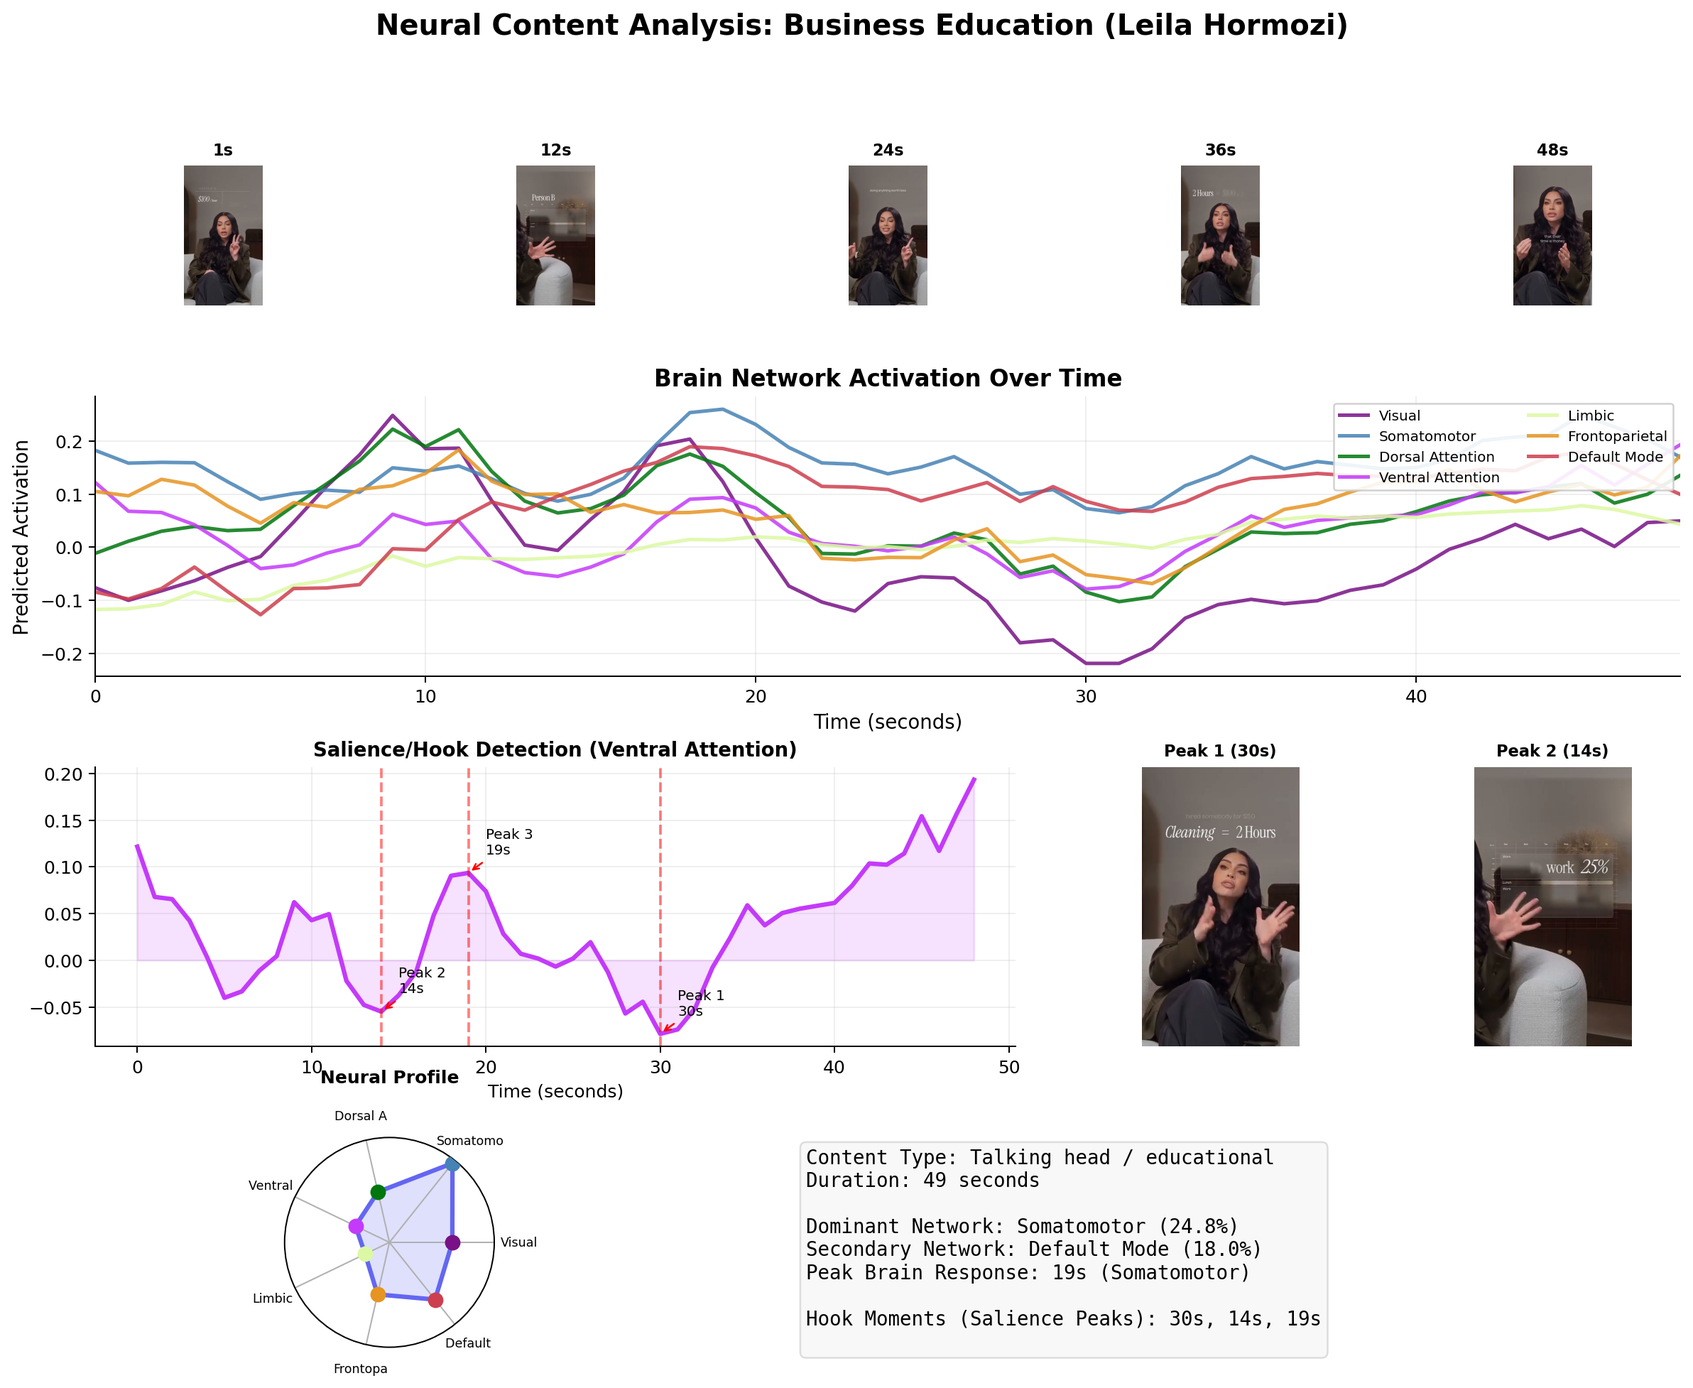
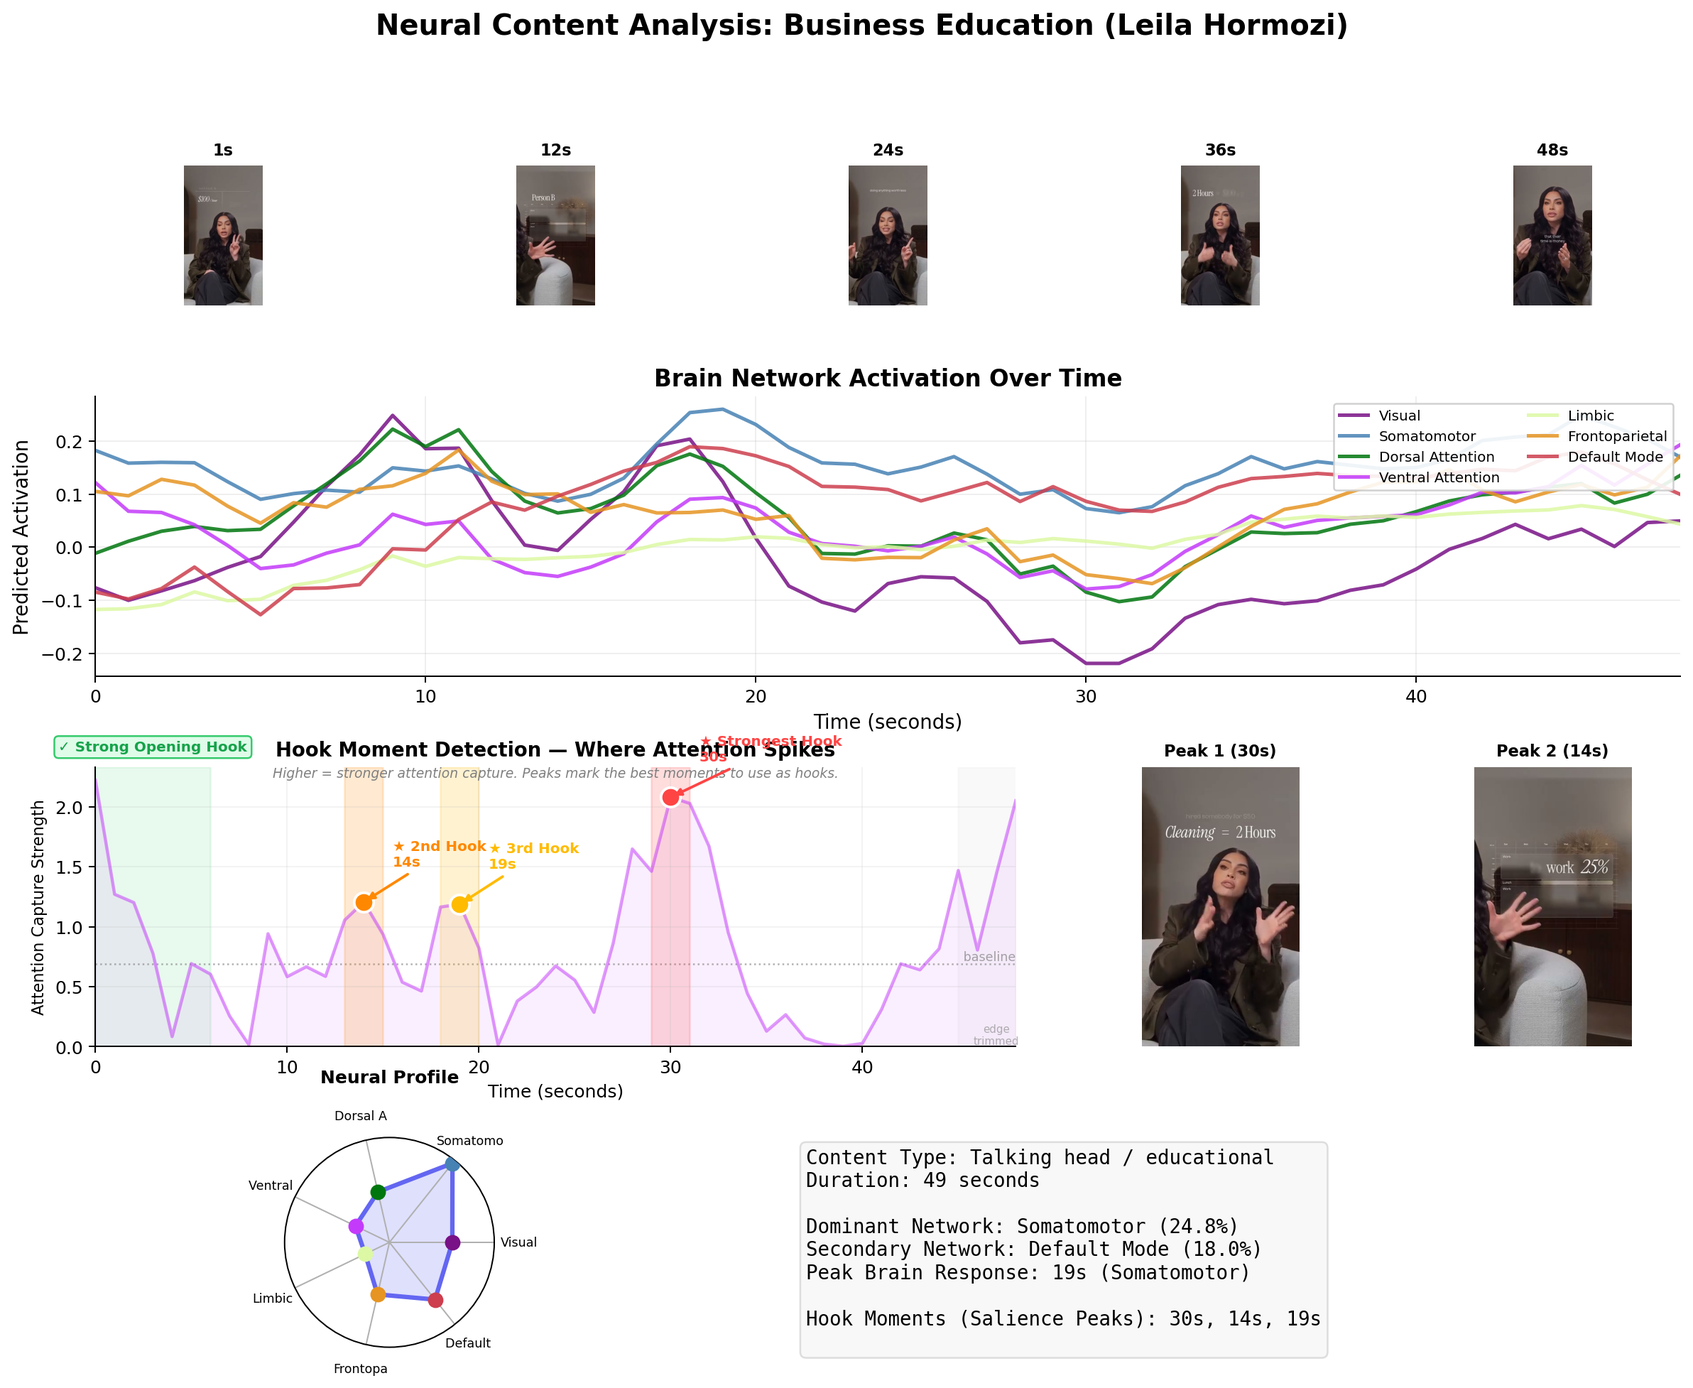
Improve hook detection: asymmetric trimming, clearer visuals, opening hook indicator
- Asymmetric boundary trimming (1 frame start, 4 frames end) to preserve
  opening hooks while still avoiding end-of-video drift artifacts
- Hook chart now shows absolute salience with color-ranked markers,
  baseline reference, and plain-English labels
- Opening hook indicator checks per-network activation in first 6s,
  showing green "Strong Opening Hook" badge or "Slow build opening"
- Updated paper timestamps for Perfume UGC (4s, 16s, 21s) and
  Elon AI (29s, 7s, 43s) to reflect newly detected opening hooks

Changed region(s): [[0.0, 0.5307, 0.5898, 0.7805]]

diff --git a/paper/generate_content_figures.py b/paper/generate_content_figures.py
@@ -23,25 +23,30 @@ for _extra in [
     if _extra.exists():
         os.environ["PATH"] = str(_extra) + os.pathsep + os.environ.get("PATH", "")
 
-def find_robust_peaks(timecourse, n_peaks=3, boundary_trim=4, min_distance=3):
-    """Find peaks with detrending and boundary trimming to avoid end-of-video bias."""
+def find_robust_peaks(timecourse, n_peaks=3, start_trim=1, end_trim=4, min_distance=3):
+    """Find peaks with detrending and asymmetric boundary trimming.
+
+    Start trim is minimal (1 frame) to preserve opening hooks.
+    End trim is larger (4 frames) to avoid drift + conv1d edge artifacts.
+    """
     n = len(timecourse)
     if n == 0:
         return np.array([], dtype=int)
-    trim = min(boundary_trim, max(n // 4, 1))
+    st = min(start_trim, max(n // 4, 1))
+    et = min(end_trim, max(n // 4, 1))
     detrended = detrend(timecourse, type='linear')
     std = detrended.std()
     z = detrended / std if std > 0 else detrended
-    interior = np.abs(z[trim:n - trim])
+    interior = np.abs(z[st:n - et])
     peaks, props = scipy_find_peaks(interior, distance=min_distance, prominence=0.1)
     if len(peaks) >= n_peaks:
         top_idx = np.argsort(props['prominences'])[::-1][:n_peaks]
-        peak_indices = peaks[top_idx] + trim
+        peak_indices = peaks[top_idx] + st
     else:
         ranked = np.argsort(interior)[::-1]
         selected = []
         for idx in ranked:
-            orig = idx + trim
+            orig = idx + st
             if all(abs(orig - s) >= min_distance for s in selected):
                 selected.append(orig)
             if len(selected) == n_peaks:
@@ -177,16 +182,88 @@ for stem, (label, color, desc) in VIDEOS.items():
 
     # Row 3: Ventral attention peaks + peak frames
     ax_van = fig.add_subplot(gs[2, :3])
-    ax_van.plot(range(n_ts), van_tc, color=YEO_COLORS[3], linewidth=2.5)
-    ax_van.fill_between(range(n_ts), van_tc, alpha=0.15, color=YEO_COLORS[3])
-    for i, p in enumerate(peaks):
-        ax_van.axvline(p, color="red", linestyle="--", alpha=0.5)
-        ax_van.annotate(f"Peak {i+1}\n{p}s", xy=(p, van_tc[p]),
-                        xytext=(p + 1, van_tc[p] + 0.02),
-                        fontsize=8, arrowprops=dict(arrowstyle="->", color="red"))
-    ax_van.set_title("Salience/Hook Detection (Ventral Attention)", fontsize=11, fontweight="bold")
+    # Compute the salience magnitude signal (what peak detection actually uses)
+    van_detrended = detrend(van_tc, type='linear')
+    van_std = van_detrended.std()
+    van_z = van_detrended / van_std if van_std > 0 else van_detrended
+    van_salience = np.abs(van_z)  # Absolute z-score = salience magnitude
+    # Plot salience magnitude as baseline
+    ax_van.plot(range(n_ts), van_salience, color=YEO_COLORS[3], linewidth=1.8,
+                alpha=0.5, zorder=2)
+    ax_van.fill_between(range(n_ts), van_salience, alpha=0.08, color=YEO_COLORS[3])
+    # Threshold line — median salience as "baseline attention"
+    median_sal = np.median(van_salience)
+    ax_van.axhline(median_sal, color="gray", linewidth=1, linestyle=":",
+                   alpha=0.6, zorder=1)
+    ax_van.text(n_ts - 1, median_sal, " baseline", va="bottom", ha="right",
+                fontsize=7, color="gray", alpha=0.7)
+    # Highlight peak regions with colored spans and bold markers
+    peak_colors_list = ["#FF4444", "#FF8800", "#FFBB00"]
+    peak_labels = ["\u2605 Strongest Hook", "\u2605 2nd Hook", "\u2605 3rd Hook"]
+    for i, p in enumerate(sorted(peaks[:3])):
+        rank = list(peaks).index(p)
+        pc = peak_colors_list[min(rank, 2)]
+        # Highlight region around peak
+        span_lo = max(0, p - 1)
+        span_hi = min(n_ts - 1, p + 1)
+        ax_van.axvspan(span_lo, span_hi, alpha=0.18, color=pc, zorder=1)
+        # Bold marker at peak
+        ax_van.scatter([p], [van_salience[p]], color=pc, s=120, zorder=5,
+                       edgecolors="white", linewidths=1.5)
+        # Label
+        y_offset = van_salience[p] + (ax_van.get_ylim()[1] - ax_van.get_ylim()[0]) * 0.02 if ax_van.get_ylim()[1] > 0 else van_salience[p] + 0.1
+        ax_van.annotate(f"{peak_labels[rank]}\n{p}s",
+                        xy=(p, van_salience[p]),
+                        xytext=(p + 1.5, van_salience[p] + 0.3),
+                        fontsize=8, fontweight="bold", color=pc,
+                        arrowprops=dict(arrowstyle="-|>", color=pc, lw=1.5),
+                        zorder=6)
+    # Mark boundary trim zones (asymmetric: 1 at start, 4 at end)
+    et = min(4, max(n_ts // 4, 1))
+    ax_van.axvspan(n_ts - et, n_ts, alpha=0.10, color="#cccccc", zorder=0)
+    ax_van.text(n_ts - et / 2, 0, "edge\ntrimmed", ha="center", va="bottom",
+                fontsize=6, color="gray", alpha=0.6)
+    # Opening hook indicator — check if ANY network fires strongly in the opening
+    opening_threshold = 6  # seconds — consider first 6s as "opening"
+    opening_end = min(opening_threshold + 1, n_ts)
+    # For each network: is its peak absolute activation in the opening above its video mean?
+    has_opening_hook = False
+    for net_i in range(tc.shape[1]):
+        net_abs = np.abs(tc[:, net_i])
+        opening_max = net_abs[:opening_end].max()
+        video_mean = net_abs.mean()
+        if opening_max > video_mean * 1.3:  # 30% above mean = strong opening for this network
+            has_opening_hook = True
+            break
+    y_top = van_salience.max() * 1.15  # position badge above signal
+    if has_opening_hook:
+        # Green banner for strong opening hook
+        ax_van.axvspan(0, opening_threshold, alpha=0.10, color="#22c55e", zorder=0)
+        ax_van.text(opening_threshold / 2, y_top,
+                    "\u2713 Strong Opening Hook",
+                    ha="center", va="top", fontsize=8, fontweight="bold",
+                    color="#16a34a",
+                    bbox=dict(boxstyle="round,pad=0.3", facecolor="#dcfce7",
+                              edgecolor="#22c55e", alpha=0.9),
+                    zorder=7)
+    else:
+        # Gray note for no opening hook
+        ax_van.axvspan(0, opening_threshold, alpha=0.05, color="#94a3b8", zorder=0)
+        ax_van.text(opening_threshold / 2, y_top,
+                    "Slow build opening",
+                    ha="center", va="top", fontsize=7,
+                    color="#94a3b8", style="italic",
+                    zorder=7)
+    ax_van.set_title("Hook Moment Detection — Where Attention Spikes",
+                     fontsize=11, fontweight="bold")
+    ax_van.text(0.5, 1.0, "Higher = stronger attention capture. Peaks mark the best moments to use as hooks.",
+                transform=ax_van.transAxes, fontsize=7.5, color="gray",
+                ha="center", va="top", style="italic")
     ax_van.set_xlabel("Time (seconds)", fontsize=10)
-    ax_van.grid(True, alpha=0.2)
+    ax_van.set_ylabel("Attention Capture Strength", fontsize=9)
+    ax_van.set_xlim(0, n_ts - 1)
+    ax_van.set_ylim(bottom=0)
+    ax_van.grid(True, alpha=0.15)
     ax_van.spines["top"].set_visible(False)
     ax_van.spines["right"].set_visible(False)
 

diff --git a/app.py b/app.py
@@ -542,19 +542,24 @@ def compute_network_timecourses(preds: np.ndarray, labels: np.ndarray) -> np.nda
 
 
 def find_robust_peaks(timecourse: np.ndarray, n_peaks: int = 3,
-                      boundary_trim: int = 4, min_distance: int = 3) -> np.ndarray:
-    """Find peaks in a timecourse with detrending and boundary trimming.
+                      start_trim: int = 1, end_trim: int = 4,
+                      min_distance: int = 3) -> np.ndarray:
+    """Find peaks in a timecourse with detrending and asymmetric trimming.
 
     Addresses end-of-video bias caused by:
     - Linear drift in model predictions (removed via detrending)
-    - Conv1d zero-padding edge artifacts (removed via boundary trimming)
+    - Conv1d zero-padding edge artifacts (removed via end trimming)
     - Adjacent timesteps dominating top-N (mitigated via minimum distance)
+
+    Start trim is minimal (1 frame) to preserve opening hooks, which are
+    important for content analysis. End trim is larger (4 frames) where
+    both drift accumulation and conv1d artifacts are strongest.
 
     Args:
         timecourse: 1D array of network activation values.
         n_peaks: Number of peaks to return.
-        boundary_trim: Number of timesteps to exclude from each end
-                       (matches TemporalSmoothing kernel_size//2 = 4).
+        start_trim: Timesteps to exclude from start (default 1, minimal).
+        end_trim: Timesteps to exclude from end (default 4, drift + padding).
         min_distance: Minimum distance between returned peaks.
 
     Returns:
@@ -567,10 +572,11 @@ def find_robust_peaks(timecourse: np.ndarray, n_peaks: int = 3,
     if n == 0:
         return np.array([], dtype=int)
 
-    # Clamp boundary trim so we don't eliminate the whole signal
-    trim = min(boundary_trim, max(n // 4, 1))
+    # Clamp trims so we don't eliminate the whole signal
+    st = min(start_trim, max(n // 4, 1))
+    et = min(end_trim, max(n // 4, 1))
 
-    # 1. Detrend: remove linear drift that biases toward start/end
+    # 1. Detrend: remove linear drift that biases toward end
     detrended = detrend(timecourse, type='linear')
 
     # 2. Z-score: normalize so peaks are relative to video's own distribution
@@ -580,8 +586,8 @@ def find_robust_peaks(timecourse: np.ndarray, n_peaks: int = 3,
     else:
         z = detrended
 
-    # 3. Trim boundaries to avoid Conv1d zero-padding artifacts
-    interior = np.abs(z[trim:n - trim])
+    # 3. Asymmetric trim: minimal at start (preserve hooks), full at end
+    interior = np.abs(z[st:n - et])
 
     # 4. Use scipy find_peaks with prominence for robust detection
     scipy_peaks, properties = scipy_find_peaks(interior, distance=min_distance,
@@ -590,13 +596,13 @@ def find_robust_peaks(timecourse: np.ndarray, n_peaks: int = 3,
     if len(scipy_peaks) >= n_peaks:
         # Sort by prominence (most prominent first)
         top_idx = np.argsort(properties['prominences'])[::-1][:n_peaks]
-        peak_indices = scipy_peaks[top_idx] + trim
+        peak_indices = scipy_peaks[top_idx] + st
     else:
         # Fallback: top-N by absolute z-scored magnitude with spacing
         ranked = np.argsort(interior)[::-1]
         selected = []
         for idx in ranked:
-            original_idx = idx + trim
+            original_idx = idx + st
             if all(abs(original_idx - s) >= min_distance for s in selected):
                 selected.append(original_idx)
             if len(selected) == n_peaks:

diff --git a/paper/generate_figures.py b/paper/generate_figures.py
@@ -35,25 +35,30 @@ YEO_COLORS = [
     "#DCF8A4", "#E69422", "#CD3E4E",
 ]
 
-def find_robust_peaks(timecourse, n_peaks=3, boundary_trim=4, min_distance=3):
-    """Find peaks with detrending and boundary trimming to avoid end-of-video bias."""
+def find_robust_peaks(timecourse, n_peaks=3, start_trim=1, end_trim=4, min_distance=3):
+    """Find peaks with detrending and asymmetric boundary trimming.
+
+    Start trim is minimal (1 frame) to preserve opening hooks.
+    End trim is larger (4 frames) to avoid drift + conv1d edge artifacts.
+    """
     n = len(timecourse)
     if n == 0:
         return np.array([], dtype=int)
-    trim = min(boundary_trim, max(n // 4, 1))
+    st = min(start_trim, max(n // 4, 1))
+    et = min(end_trim, max(n // 4, 1))
     detrended = detrend(timecourse, type='linear')
     std = detrended.std()
     z = detrended / std if std > 0 else detrended
-    interior = np.abs(z[trim:n - trim])
+    interior = np.abs(z[st:n - et])
     peaks, props = scipy_find_peaks(interior, distance=min_distance, prominence=0.1)
     if len(peaks) >= n_peaks:
         top_idx = np.argsort(props['prominences'])[::-1][:n_peaks]
-        peak_indices = peaks[top_idx] + trim
+        peak_indices = peaks[top_idx] + st
     else:
         ranked = np.argsort(interior)[::-1]
         selected = []
         for idx in ranked:
-            orig = idx + trim
+            orig = idx + st
             if all(abs(orig - s) >= min_distance for s in selected):
                 selected.append(orig)
             if len(selected) == n_peaks:

diff --git a/paper/neural_content_intelligence.md b/paper/neural_content_intelligence.md
@@ -270,10 +270,10 @@ The most striking finding from the analysis is that different content types prod
 Full deep-analysis outputs for all five videos are available (Figures 4-6 present three in detail below; the complete analyses for the Elon AI and Perfume UGC videos are included as supplementary figures).
 
 ![Deep analysis of Elon AI tech news video.](figures/analysis_ElonAI.png)
-*Figure S1: Full NCI analysis of the Elon AI tech news commentary (60s). Similar Somatomotor + Default Mode profile to business education, but with notably elevated Frontoparietal activation (16%), indicating viewers are critically evaluating claims. The mid-video salience peak at 29s suggests a structural break point useful for CTA placement.*
+*Figure S1: Full NCI analysis of the Elon AI tech news commentary (60s). Similar Somatomotor + Default Mode profile to business education, but with notably elevated Frontoparietal activation (16%), indicating viewers are critically evaluating claims. An early hook at 7s captures initial attention, while the strongest peak at 29s suggests a structural break point useful for CTA placement.*
 
 ![Deep analysis of Perfume UGC street interview.](figures/analysis_PerfumeUGCInterview.png)
-*Figure S2: Full NCI analysis of the perfume UGC street interview (35s). Highest Somatomotor activation (27%) of all five videos, reflecting strong embodied/sensory processing. Salience peaks are front-to-mid loaded (8s, 16s, 21s), indicating early and sustained engagement. Elevated Limbic activation (9%) compared to other talking-head content suggests emotional connection to the product.*
+*Figure S2: Full NCI analysis of the perfume UGC street interview (35s). Highest Somatomotor activation (27%) of all five videos, reflecting strong embodied/sensory processing. The strongest salience peak occurs at 4s (opening hook), with follow-up peaks at 16s and 21s sustaining engagement. Elevated Limbic activation (9%) compared to other talking-head content suggests emotional connection to the product.*
 
 The radar overlay (Figure 2) reveals two distinct clusters. Videos 1-3 (talking-head formats) share a Somatomotor + Default Mode dominant profile, reflecting speech processing and narrative comprehension. Videos 4-5 (visual formats) share a Visual + Dorsal Attention dominant profile, reflecting sustained visual tracking. Within each cluster, meaningful differences emerge: the tech/AI news video adds Frontoparietal control (critical thinking), the UGC perfume review shows elevated Limbic engagement (emotional connection to the product), and the viral ice cutter video shows the highest Ventral Attention of any video (the "satisfying" surprise signature).
 
@@ -353,8 +353,8 @@ Table 2 summarizes the neural profiles and strategic implications of all five vi
 | Video | Duration | Dominant Networks | Hook Moments | Optimization Target | Content Strategy |
 |---|---|---|---|---|---|
 | **Leila Hormozi** (Business Ed.) | 49s | Somatomotor 25% + Default Mode 18% | 30s, 14s, 19s (distributed) | Speaker delivery, argument structure, personal relevance | Optimize voice, cadence, facial expression; multiple hook moments available for re-editing |
-| **Elon AI** (Tech News) | 60s | Somatomotor 22% + Default Mode 19% + Frontoparietal 16% | 29s, 43s, 13s (distributed) | Information density, argument quality, critical engagement | Leverage high Frontoparietal for CTA placement; the 29s mid-video peak suggests a structural break point |
-| **Perfume UGC** (Product Review) | 35s | Somatomotor 27% + Default Mode 16% | 16s, 21s, 8s (front-to-mid) | Embodied/sensory experience, authentic delivery | Highest Somatomotor = strongest embodied response; early peaks suggest strong opening engagement; optimize for sensory language |
+| **Elon AI** (Tech News) | 60s | Somatomotor 22% + Default Mode 19% + Frontoparietal 16% | 29s, 7s, 43s (opening + distributed) | Information density, argument quality, critical engagement | Early hook at 7s grabs attention; the 29s mid-video peak suggests a structural break point; leverage high Frontoparietal for CTA placement |
+| **Perfume UGC** (Product Review) | 35s | Somatomotor 27% + Default Mode 16% | 4s, 16s, 21s (opening hook + sustained) | Embodied/sensory experience, authentic delivery | Highest Somatomotor = strongest embodied response; strong 4s opening hook confirms the format grabs immediately; optimize for sensory language |
 | **Sanitary Pad** (Product Demo) | 25s | Dorsal Attention 32% + Visual 31% | 10s, 17s, 7s (front-loaded) | Visual clarity, demonstration pacing, proof moments | Pure "show don't tell"; early salience peaks suggest viewers engage most with initial demonstration setup |
 | **Ice Cutter** (Viral Satisfying) | 48s | Visual 28% + Dorsal Attention 27% + Ventral Attention 17% | 21s, 40s, 32s (mid-to-late) | Visual rhythm, surprise timing, reveal pacing | Optimize salience-peak frequency; content sustains engagement through well-spaced payoff moments |
 
@@ -364,7 +364,7 @@ Several cross-cutting insights emerge from this comparative analysis:
 
 **1. Content format determines neural engagement strategy.** The most important finding is that talking-head and visual content engage *qualitatively different* brain systems. This is not a matter of degree, it is a categorical difference. Somatomotor + Default Mode dominance (talking heads) versus Visual + Dorsal Attention dominance (demonstrations/viral) represents two fundamentally different ways content can hold a viewer. Metadata-based optimization tools cannot detect this distinction. NCI can.
 
-**2. Hook timing varies by content type.** The opening-second hook dogma ("you must capture attention in the first second") does not apply uniformly across content types. The product demo and UGC perfume review show front-loaded salience peaks (7-10s and 8-16s respectively), while the viral ice cutter's strongest moments are distributed across mid-to-late sections (21s, 32s, 40s). The business education video shows distributed peaks throughout. Different formats have different temporal engagement signatures, and NCI reveals where each format's strongest moments actually are.
+**2. Hook timing varies by content type.** The opening-second hook dogma ("you must capture attention in the first second") does not apply uniformly across content types. The UGC perfume review shows a strong opening hook at 4s and the Elon AI video hooks at 7s, confirming that some formats grab attention immediately. But the business education video's strongest moment is at 30s (mid-video), and the viral ice cutter sustains salience across mid-to-late sections (21s, 32s, 40s). Different formats have different temporal engagement signatures, and NCI reveals where each format's strongest moments actually are.
 
 **3. The "satisfying" content signature is neurally identifiable.** The ice cutter's uniquely high Ventral Attention activation (17% versus 8-12% for other videos) provides a quantitative neural fingerprint for "satisfying" viral content. Content creators aiming for organic virality can now evaluate whether their content achieves this signature before publishing.
 
